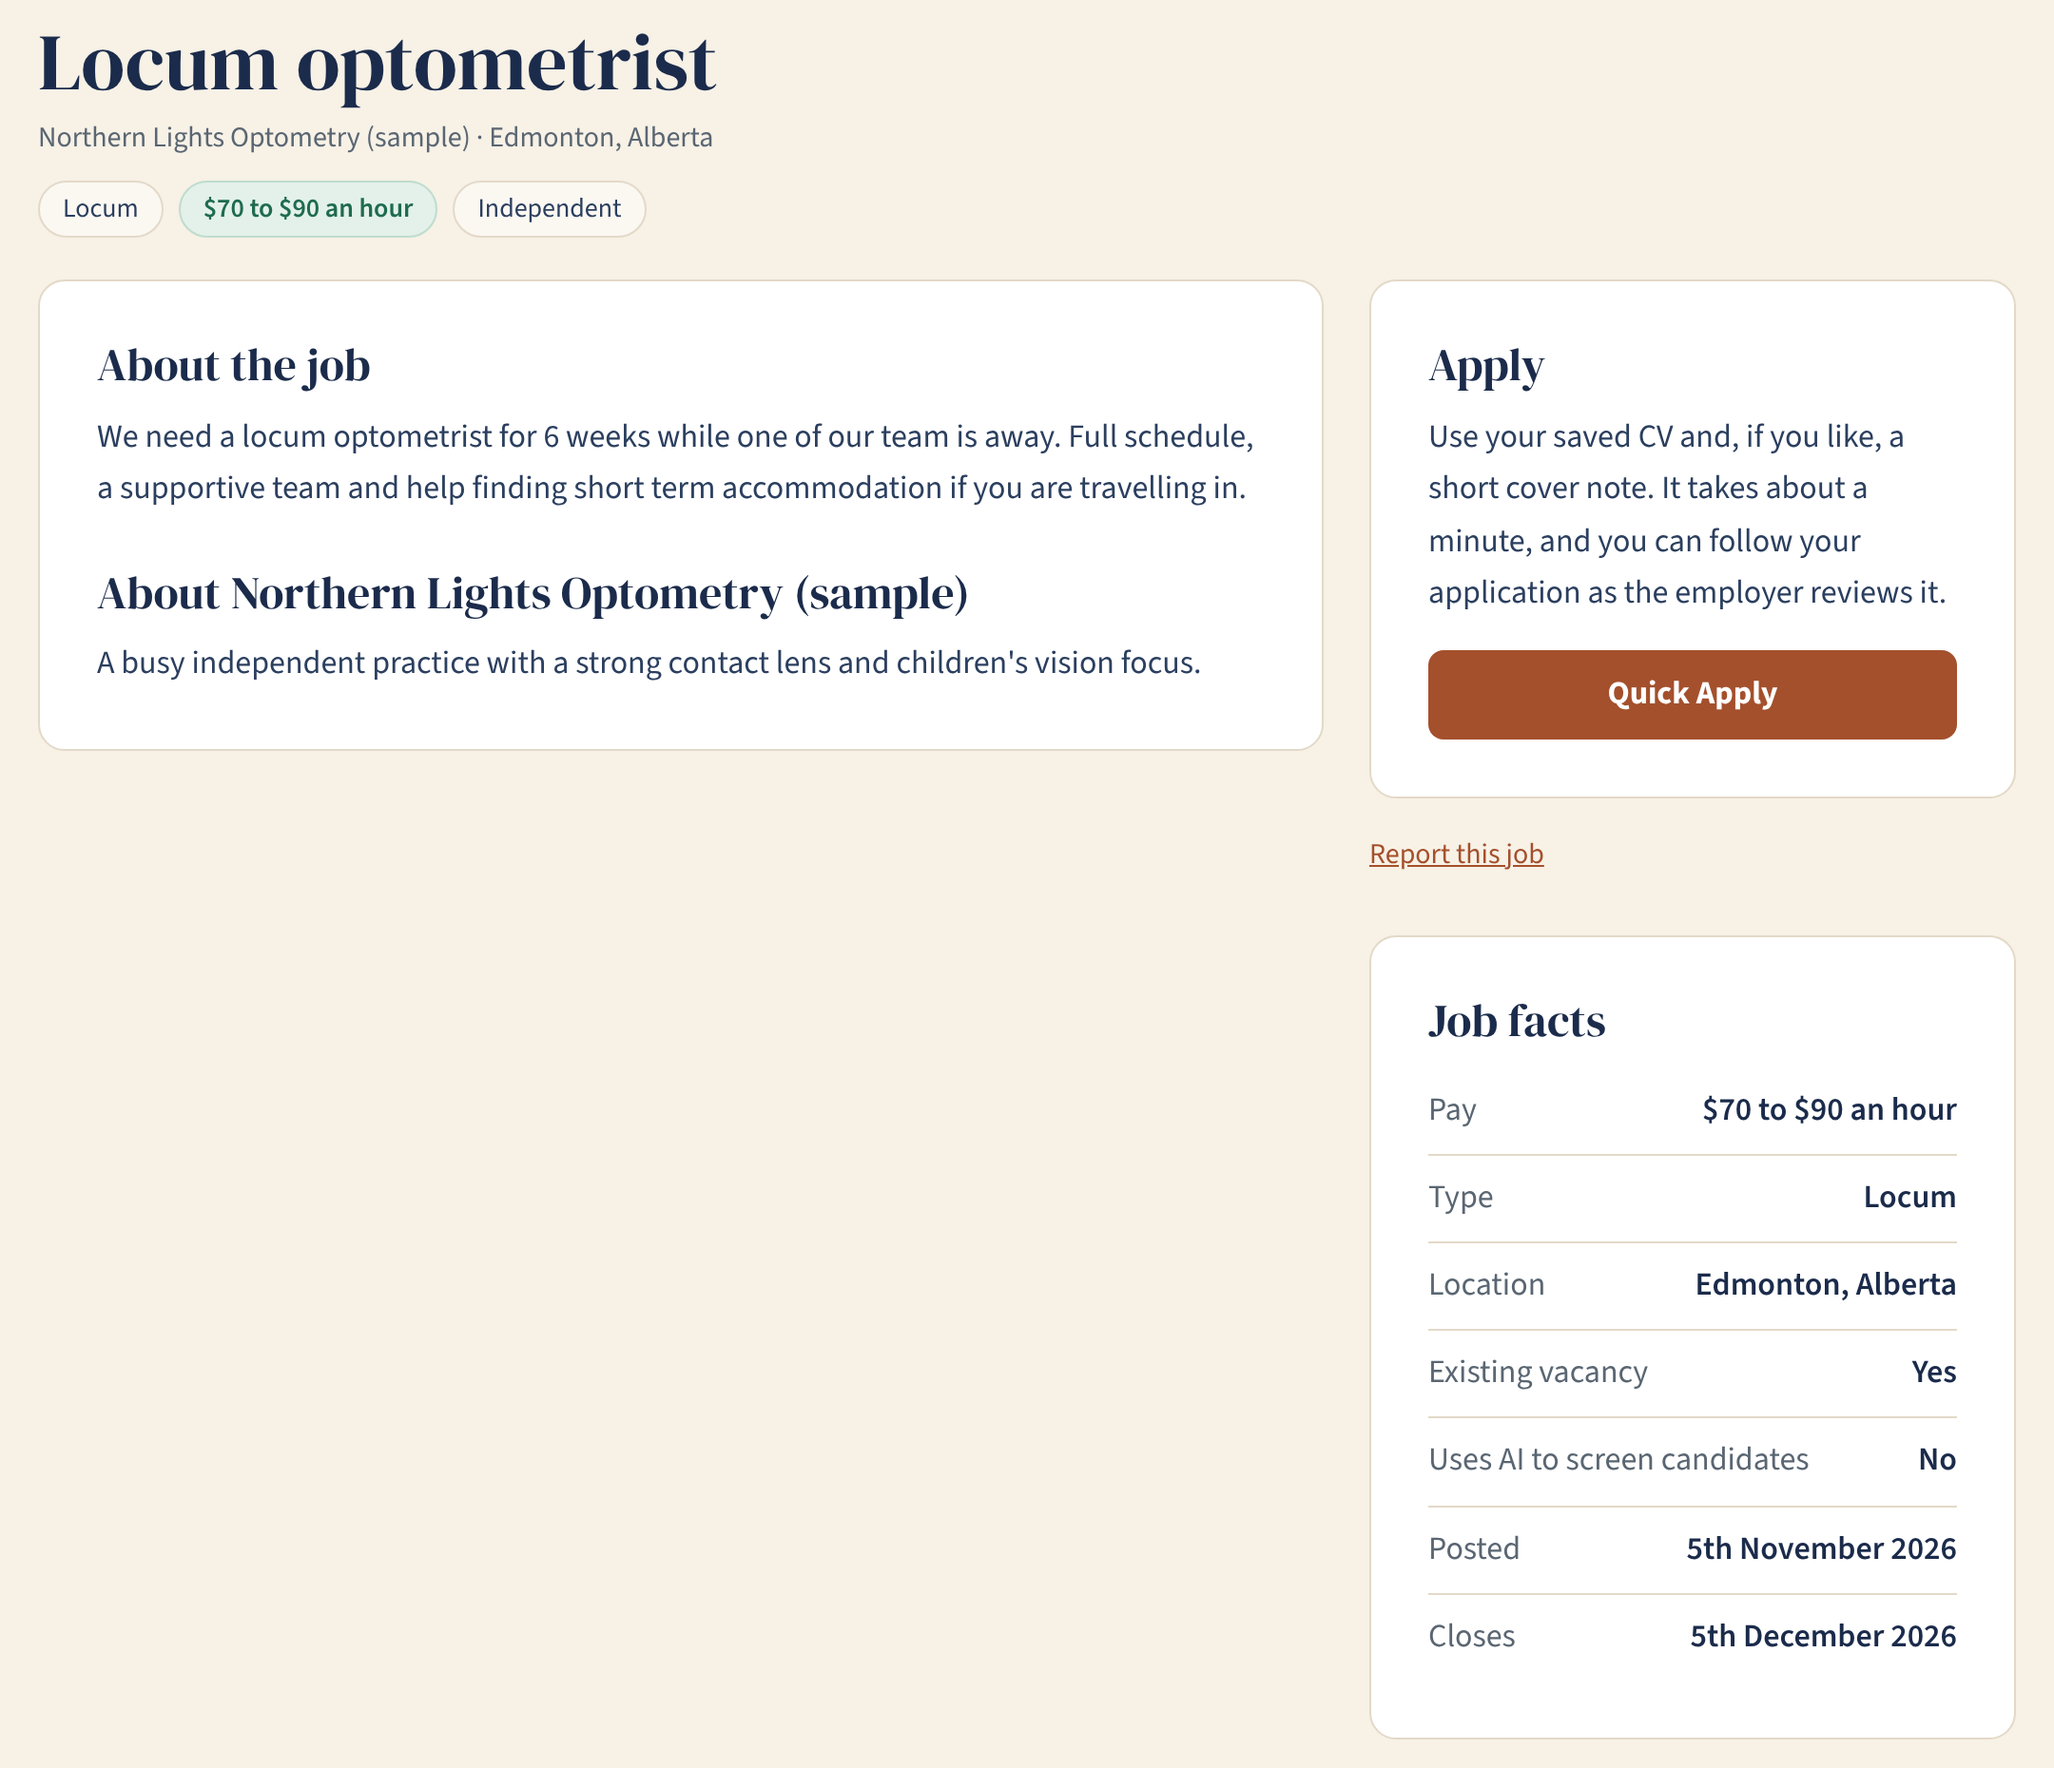
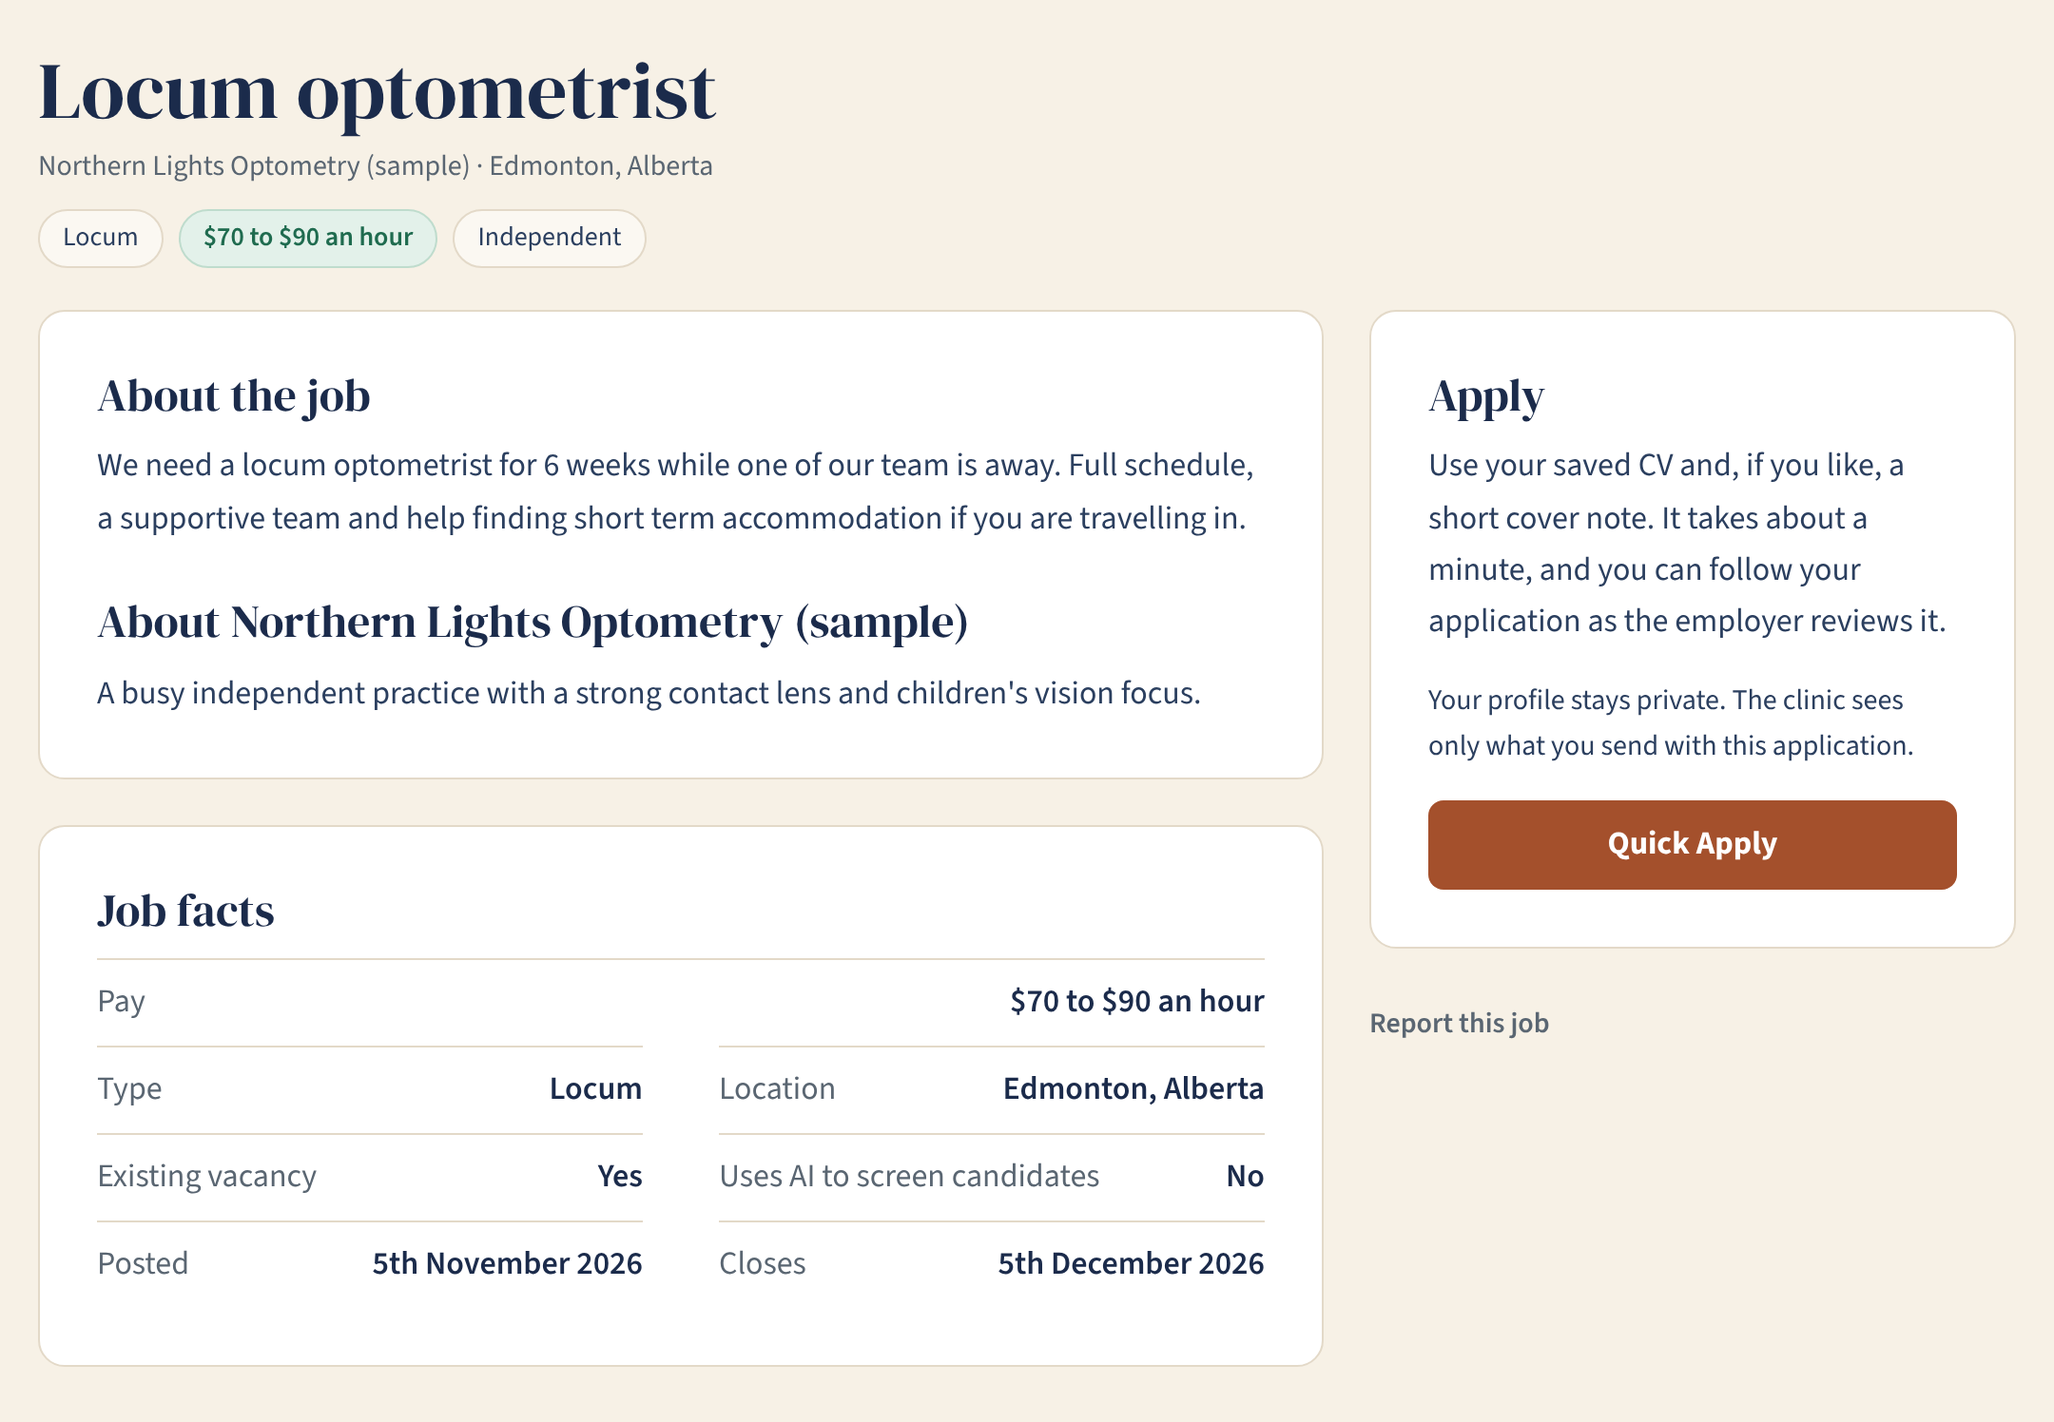
Landing page: the sample job screen now shows the current job page layout
The sample was taken before Job facts moved under the description, so it
showed facts in the side column with a large empty gap. Rebuilt from the
real stylesheet and page structure, with the privacy line under the Apply box.

Claude-Session: https://claude.ai/code/session_01K4dgNTXFVpj9KPcdg99oua

diff --git a/components/PreLaunchHome.tsx b/components/PreLaunchHome.tsx
@@ -37,7 +37,7 @@ export default function PreLaunchHome() {
                 <figcaption>Search and filter. Every job card shows its pay.</figcaption>
               </figure>
               <figure>
-                <Image src="/home/sample-job.png" alt="A Kestrel job page, with the job description, a Quick Apply button, and job facts that include pay, location, whether it is an existing vacancy, and whether AI is used to screen candidates." width={2160} height={1860} sizes="(max-width: 860px) 100vw, 520px" />
+                <Image src="/home/sample-job.png" alt="A Kestrel job page, with the job description, a Quick Apply button, and job facts that include pay, location, whether it is an existing vacancy, and whether AI is used to screen candidates." width={2160} height={1496} sizes="(max-width: 860px) 100vw, 520px" />
                 <figcaption>A job page. Pay, vacancy and AI screening are stated up front.</figcaption>
               </figure>
             </div>

diff --git a/docs/launch-home.md b/docs/launch-home.md
@@ -24,7 +24,7 @@ The wordmark is the existing file, unchanged. The tagline is text in Poppins, as
 
 ## Sample screens on the pre launch home (8th November 2026)
 
-The pre launch home shows 2 screens of the product under the hero, "What the board will look like": the job search and a job page. They are screenshots of the demo site (sample clinics and jobs, with the demo banner and header cropped out), kept in `public/home/`, and the block says plainly that they are samples. There is no link to the demo site, by Steve's decision. The block lives in `components/PreLaunchHome.tsx` only, so it disappears by itself when the launch layout takes over, and the launch home shows real jobs instead. After launch the 2 image files can be deleted. If the job page or search page changes a lot before launch, retake the screens from the demo site.
+The pre launch home shows 2 screens of the product under the hero, "What the board will look like": the job search and a job page. They are screenshots of the demo site (sample clinics and jobs, with the demo banner and header cropped out), kept in `public/home/`, and the block says plainly that they are samples. There is no link to the demo site, by Steve's decision. The block lives in `components/PreLaunchHome.tsx` only, so it disappears by itself when the launch layout takes over, and the launch home shows real jobs instead. After launch the 2 image files can be deleted. If the job page or search page changes a lot before launch, retake the screens from the demo site. The job page sample was redone on 10th November 2026, after the Job facts box moved under the description: it was rendered from the real stylesheet and page structure (Playwright, 1080 pixels wide at 2x), not captured from the demo site. The search sample is still the original capture.
 
 Idea for later (Steve, 8th November 2026, not built): a sponsored area on the home page listing either brand advertisements or chosen jobs. It must be labelled "Sponsored", must never look like an ordinary job, and waits for the disclosure conversation, like the sponsored listings in `docs/marketing/directory-plan.md`.
 
